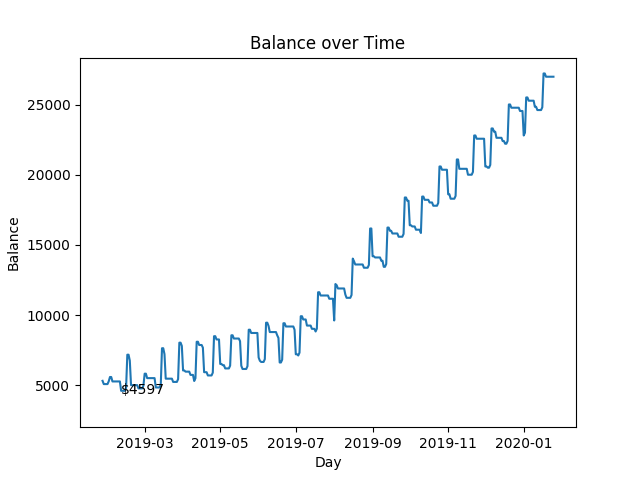
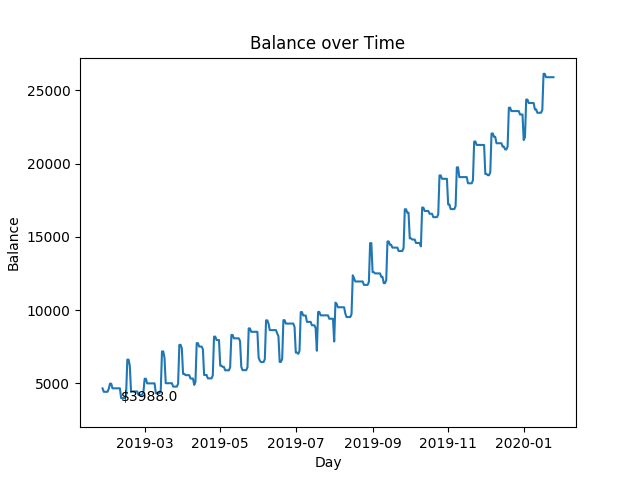
smol changes

diff --git a/data/__main__.py b/data/__main__.py
@@ -25,7 +25,7 @@ warnings.filterwarnings("ignore")
 DayOfMonth = lambda day: Schedule(start=datetime(2019,1,day), interval=relativedelta(months=1))
 WeeklyOnSunday = Schedule(start=datetime(2019,1,20), interval=relativedelta(weeks=1))
 
-RyanKautz = Schedule(start=datetime(2019,1,18), interval=relativedelta(months=1), end=datetime(2019,7,1))
+RyanKautz = Schedule(start=datetime(2019,1,18), interval=relativedelta(months=1), end=datetime(2019,8,1))
 
 Bridgewater = Schedule(start=datetime(2019,1,18), interval=relativedelta(weeks=2))
 ChickFilA = Schedule(start=datetime(2019,1,17), interval=relativedelta(weeks=2))
@@ -36,16 +36,17 @@ SkyFlixPayment = SingleTransaction(date=datetime(2019, 1, 25))
 Fair = SingleTransaction(date=datetime(2019, 2, 1))
 
 accounts = [
-    Account(name="Simple", balance=845),
-    Account(name="360 Checking", balance=36),
+    Account(name="360 Checking", balance=222),
     Account(name="360 Savings", balance=4427),
 ]
 
+Ryan = Transaction(name="Ryan",            category="debt",    schedule=RyanKautz,        value=-1750)
+
 transactions = [
-    Transaction(name="Bridgewater",     category="income",  schedule=Bridgewater,      value=2600),
+    Transaction(name="Bridgewater",     category="income",  schedule=Bridgewater,      value=2650),
     Transaction(name="ChickFilA",       category="income",  schedule=ChickFilA,        value=200),
     
-    Transaction(name="Ryan",            category="debt",    schedule=RyanKautz,        value=-1750),
+    Ryan,
 
     Transaction(name="1KennedyFlats",   category="rent",         schedule=DayOfMonth(1),    value=-1750),
     Transaction(name="Sprint",          category="bills",        schedule=DayOfMonth(10),   value=-435),
@@ -65,6 +66,22 @@ if __name__ == "__main__":
     tx_set = TransactionSet(transactions=transactions, end=datetime.today() + relativedelta(months=12))
     bal = BalanceSheet(log=tx_set.log, accounts=accounts)
 
+    owed = 15070
+    for o in Ryan.schedule.occurances:
+        owed -= 1750
+        print(f'Payment: {o.date()} ${owed}')
+
+        days_to_pay_off = [line for line in bal.sheet if line["balance"] > owed and line["day"] < o]
+        if len(days_to_pay_off) > 1:
+            print(f'Balance before pay day: ${days_to_pay_off[0]["balance"]}', "\n")
+        else:
+            days_to_pay_off = [line for line in bal.sheet if line["day"] < o]
+            if len(days_to_pay_off) > 1:
+                print(f'Off by ${owed-days_to_pay_off[0]["balance"]}\n')
+            else:
+                print("---------\n")
+
+    print("\n")
     bal.create_plot()
-    print(tabulate(bal.sheet))
+    # print(tabulate(bal.sheet))
     print(bal.stats)

diff --git a/Delta/report.py b/Delta/report.py
@@ -73,7 +73,6 @@ class BalanceSheet:
                 "day": self.daily_change[i-1]["day"],
                 "balance": (r[len(r)-1]["balance"] + self.daily_change[i-1]["change"]) * self.daily_interest
             })
-        print(r[:2])
         return r
 
     def create_plot(self, *args, name="reality"):
